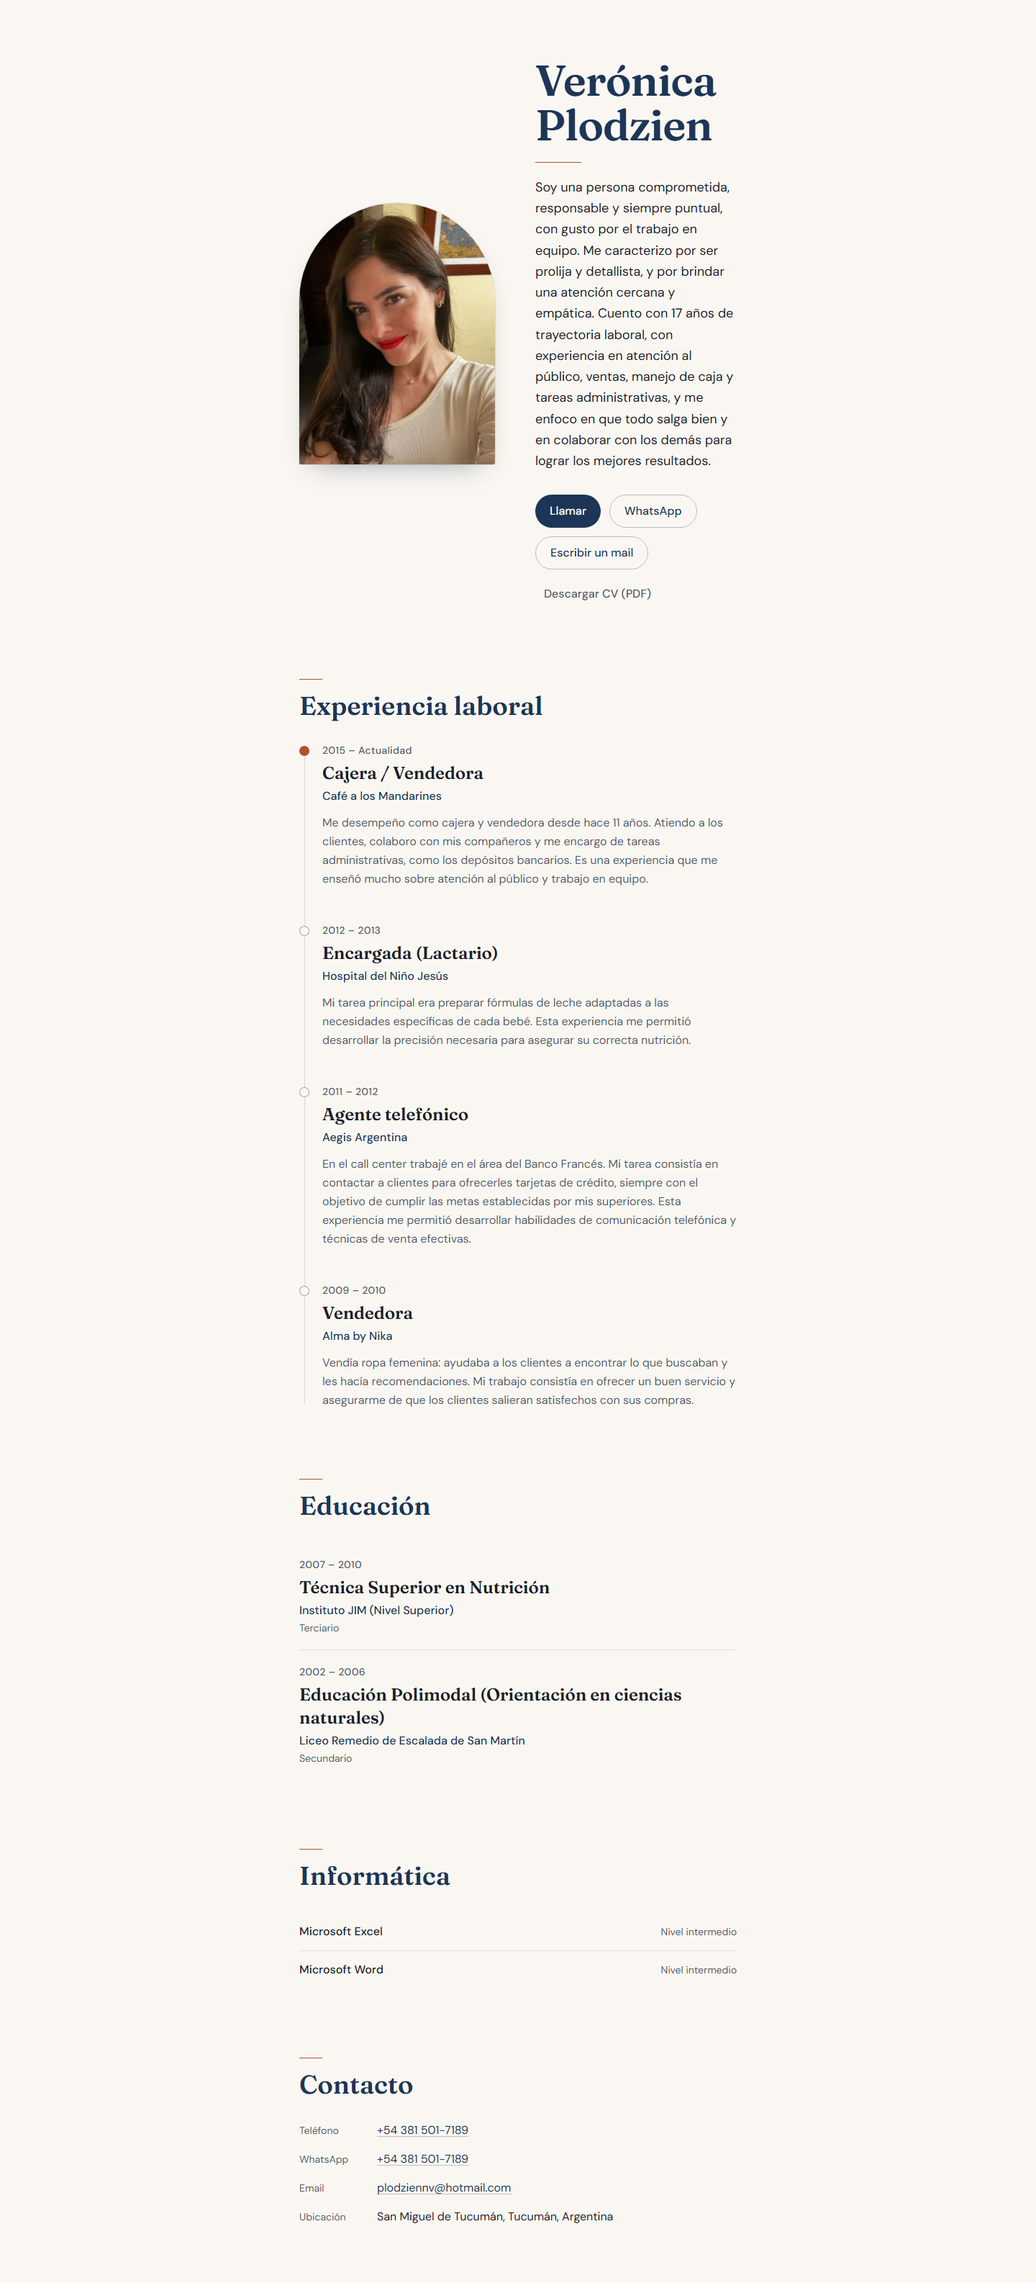
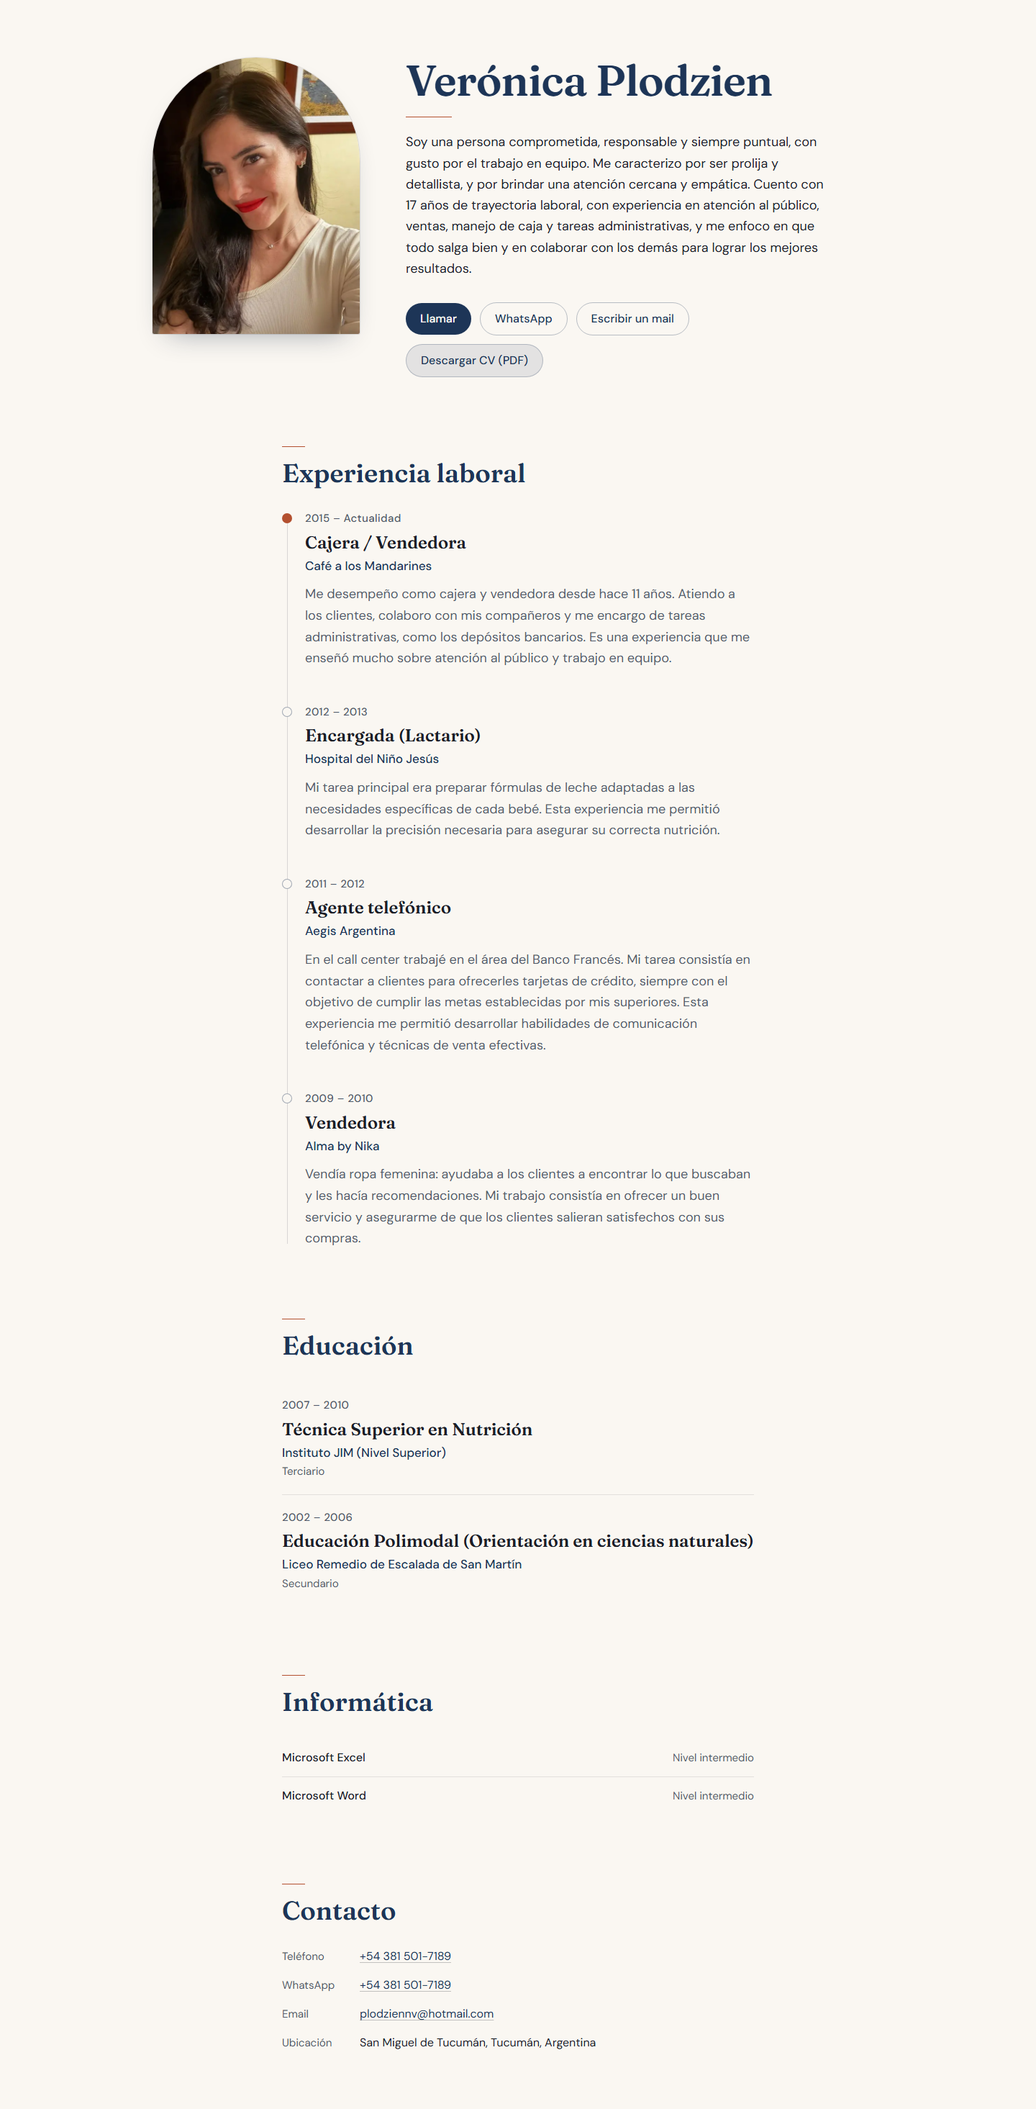
Round 7: desktop layout pass — 1080/720 column widths, two-column hero, button row, rem type sizes, metadataBase local fallback

diff --git a/components/hero.tsx b/components/hero.tsx
@@ -51,7 +51,7 @@ export function Hero(props: HeroProps) {
   return (
     <section className="pt-10 sm:pt-16 md:pt-20">
       <motion.div
-        className="grid items-center gap-8 md:grid-cols-2 md:gap-12"
+        className="grid items-start gap-8 md:grid-cols-[17rem_1fr] md:gap-12 lg:grid-cols-[18rem_1fr] lg:gap-16"
         variants={reduce ? undefined : parent}
         initial={reduce ? false : "hidden"}
         animate={reduce ? undefined : "show"}
@@ -59,7 +59,7 @@ export function Hero(props: HeroProps) {
         {/* Photo: soft arch, the quiet center of the page */}
         <motion.div
           {...entrance}
-          className="mx-auto w-44 sm:w-52 md:mx-0 md:w-full md:max-w-[17rem]"
+          className="mx-auto w-44 sm:w-52 md:mx-0 md:w-full"
         >
           <div className="overflow-hidden rounded-b-2xl rounded-t-[999px] shadow-[0_18px_40px_-22px_rgba(20,38,63,0.45)] ring-1 ring-ink/10">
             <Image
@@ -73,7 +73,7 @@ export function Hero(props: HeroProps) {
         </motion.div>
 
         {/* Name, mark, profile, actions */}
-        <div>
+        <div className="min-w-0 lg:max-w-[600px]">
           <motion.h1
             {...entrance}
             className="font-display text-[clamp(2.75rem,7vw,3.75rem)] font-semibold leading-[1.04] tracking-[-0.015em] text-navy"
@@ -89,38 +89,37 @@ export function Hero(props: HeroProps) {
 
           <motion.p
             {...entrance}
-            className="mt-5 max-w-[65ch] text-lg leading-relaxed"
+            className="mt-5 max-w-[60ch] text-lg leading-relaxed"
           >
             {props.profile}
           </motion.p>
 
-          <motion.div
-            {...entrance}
-            className="mt-8 flex flex-wrap gap-2.5 sm:gap-3"
-          >
-            <a
-              href={`tel:${props.phoneLink}`}
-              className="inline-flex items-center rounded-full bg-navy px-5 py-2.5 font-medium text-paper transition-colors duration-200 hover:bg-navy-deep"
-            >
-              {copy.hero.call}
-            </a>
-            <a
-              href={`https://wa.me/${props.whatsapp}`}
-              target="_blank"
-              rel="noreferrer"
-              className="inline-flex items-center rounded-full border border-navy/30 px-5 py-2.5 font-medium text-navy transition-colors duration-200 hover:border-navy hover:bg-navy/5"
-            >
-              {copy.hero.whatsapp}
-            </a>
-            <a
-              href={`mailto:${props.email}`}
-              className="inline-flex items-center rounded-full border border-navy/30 px-5 py-2.5 font-medium text-navy transition-colors duration-200 hover:border-navy hover:bg-navy/5"
-            >
-              {copy.hero.email}
-            </a>
+          <motion.div {...entrance} className="mt-8">
+            <div className="flex flex-col gap-2.5 sm:flex-row sm:flex-nowrap sm:items-center sm:gap-3">
+              <a
+                href={`tel:${props.phoneLink}`}
+                className="inline-flex items-center rounded-full bg-navy px-5 py-2.5 font-medium text-paper transition-colors duration-200 hover:bg-navy-deep"
+              >
+                {copy.hero.call}
+              </a>
+              <a
+                href={`https://wa.me/${props.whatsapp}`}
+                target="_blank"
+                rel="noreferrer"
+                className="inline-flex items-center rounded-full border border-navy/30 px-5 py-2.5 font-medium text-navy transition-colors duration-200 hover:border-navy hover:bg-navy/5"
+              >
+                {copy.hero.whatsapp}
+              </a>
+              <a
+                href={`mailto:${props.email}`}
+                className="inline-flex items-center rounded-full border border-navy/30 px-5 py-2.5 font-medium text-navy transition-colors duration-200 hover:border-navy hover:bg-navy/5"
+              >
+                {copy.hero.email}
+              </a>
+            </div>
             <a
               href="/cv.pdf"
-              className="inline-flex items-center rounded-full px-3 py-2.5 font-medium text-ink-soft transition-colors duration-200 hover:text-navy"
+              className="mt-2.5 inline-flex items-center rounded-full border border-navy/25 bg-navy/10 px-5 py-2.5 font-medium text-navy transition-colors duration-200 hover:bg-navy/15 sm:mt-3"
             >
               {copy.hero.downloadPdf}
             </a>

diff --git a/app/page.tsx b/app/page.tsx
@@ -41,35 +41,41 @@ export default function CvPage() {
   ].join(", ");
 
   return (
-    <main className="mx-auto w-full max-w-2xl px-5 sm:px-8">
-      <Hero
-        name={cv.name}
-        photoSrc={assetUrl(cv.photo.web)}
-        photoAlt={copy.page.photoAlt(cv.name)}
-        profile={profile}
-        phone={cv.contact.phone}
-        phoneLink={cv.contact.phoneLink}
-        whatsapp={cv.contact.whatsapp}
-        email={cv.contact.email}
-      />
+    <>
+      {/* Hero: full width on mobile, ~1080px centered on large screens. */}
+      <div className="mx-auto w-full px-5 sm:px-8 lg:max-w-[67.5rem]">
+        <Hero
+          name={cv.name}
+          photoSrc={assetUrl(cv.photo.web)}
+          photoAlt={copy.page.photoAlt(cv.name)}
+          profile={profile}
+          phone={cv.contact.phone}
+          phoneLink={cv.contact.phoneLink}
+          whatsapp={cv.contact.whatsapp}
+          email={cv.contact.email}
+        />
+      </div>
 
-      <ExperienceSection items={experienceItems} />
+      {/* Reading sections: ~720px column. */}
+      <div className="mx-auto w-full max-w-[45rem] px-5 sm:px-8">
+        <ExperienceSection items={experienceItems} />
 
-      {educationItems.length > 0 && (
-        <EducationSection items={educationItems} />
-      )}
+        {educationItems.length > 0 && (
+          <EducationSection items={educationItems} />
+        )}
 
-      {cv.computerSkills.length > 0 && (
-        <SkillsSection items={cv.computerSkills} />
-      )}
+        {cv.computerSkills.length > 0 && (
+          <SkillsSection items={cv.computerSkills} />
+        )}
 
-      <ContactSection
-        phone={cv.contact.phone}
-        phoneLink={cv.contact.phoneLink}
-        whatsapp={cv.contact.whatsapp}
-        email={cv.contact.email}
-        location={location}
-      />
-    </main>
+        <ContactSection
+          phone={cv.contact.phone}
+          phoneLink={cv.contact.phoneLink}
+          whatsapp={cv.contact.whatsapp}
+          email={cv.contact.email}
+          location={location}
+        />
+      </div>
+    </>
   );
 }

diff --git a/components/contact-section.tsx b/components/contact-section.tsx
@@ -34,7 +34,7 @@ export function ContactSection({
       <Reveal delay={0.08}>
         <address className="mt-8 space-y-4 not-italic">
           <p className="flex flex-wrap items-baseline gap-x-3">
-            <span className="w-24 shrink-0 text-sm text-ink-soft">
+            <span className="w-24 shrink-0 text-base text-ink-soft md:text-[0.9375rem]">
               {copy.contact.phoneLabel}
             </span>
             <a href={`tel:${phoneLink}`} className={linkClasses}>
@@ -42,7 +42,7 @@ export function ContactSection({
             </a>
           </p>
           <p className="flex flex-wrap items-baseline gap-x-3">
-            <span className="w-24 shrink-0 text-sm text-ink-soft">
+            <span className="w-24 shrink-0 text-base text-ink-soft md:text-[0.9375rem]">
               {copy.contact.whatsappLabel}
             </span>
             <a
@@ -55,7 +55,7 @@ export function ContactSection({
             </a>
           </p>
           <p className="flex flex-wrap items-baseline gap-x-3">
-            <span className="w-24 shrink-0 text-sm text-ink-soft">
+            <span className="w-24 shrink-0 text-base text-ink-soft md:text-[0.9375rem]">
               {copy.contact.emailLabel}
             </span>
             <a href={`mailto:${email}`} className={linkClasses}>
@@ -63,7 +63,7 @@ export function ContactSection({
             </a>
           </p>
           <p className="flex flex-wrap items-baseline gap-x-3">
-            <span className="w-24 shrink-0 text-sm text-ink-soft">
+            <span className="w-24 shrink-0 text-base text-ink-soft md:text-[0.9375rem]">
               {copy.contact.locationLabel}
             </span>
             <span>{location}</span>

diff --git a/app/layout.tsx b/app/layout.tsx
@@ -19,20 +19,22 @@ const cv = loadCv();
 const siteUrl = process.env.NEXT_PUBLIC_SITE_URL;
 
 /**
- * The site URL comes from an env var, never hardcoded. An absent value is
- * normal (relative URLs); a malformed one gets a clear warning instead of
- * crashing the build.
+ * The site URL comes from an env var, never hardcoded. Until the site is
+ * deployed there is no domain, so local development uses the local origin
+ * (otherwise Next warns and guesses it anyway). Set NEXT_PUBLIC_SITE_URL in
+ * .env.local / at deploy time to emit correct absolute URLs in the
+ * og/twitter tags.
  */
-function resolveMetadataBase(url: string | undefined): URL | undefined {
-  if (!url) return undefined;
+function resolveMetadataBase(): URL {
+  if (!siteUrl) return new URL("http://localhost:3000");
   try {
-    return new URL(url);
+    return new URL(siteUrl);
   } catch {
     console.warn(
-      `[metadata] NEXT_PUBLIC_SITE_URL is not a valid URL ("${url}"); ` +
-        "falling back to relative URLs.",
+      `[metadata] NEXT_PUBLIC_SITE_URL is not a valid URL ("${siteUrl}"); ` +
+        "using the local origin instead.",
     );
-    return undefined;
+    return new URL("http://localhost:3000");
   }
 }
 
@@ -45,7 +47,7 @@ const ogImage = {
 };
 
 export const metadata: Metadata = {
-  metadataBase: resolveMetadataBase(siteUrl),
+  metadataBase: resolveMetadataBase(),
   title: copy.page.title(cv.name),
   description: copy.page.description(cv.name),
   openGraph: {

diff --git a/components/education-section.tsx b/components/education-section.tsx
@@ -32,14 +32,18 @@ export function EducationSection({ items }: EducationSectionProps) {
               key={item.degree}
               className={index > 0 ? "border-t border-ink/10 py-5 first:pt-0" : "py-5"}
             >
-              <p className="text-sm font-medium tracking-wide text-ink-soft tabular-nums">
+              <p className="text-base font-medium tracking-wide text-ink-soft tabular-nums md:text-[0.9375rem]">
                 {item.period}
               </p>
               <h3 className="mt-1.5 font-display text-xl font-semibold text-ink sm:text-2xl">
                 {item.degree}
               </h3>
-              <p className="mt-1 font-medium text-navy">{item.institution}</p>
-              <p className="mt-0.5 text-sm text-ink-soft">{item.level}</p>
+              <p className="mt-1 font-medium text-navy md:text-[1.0625rem]">
+                {item.institution}
+              </p>
+              <p className="mt-0.5 text-base text-ink-soft md:text-[0.9375rem]">
+                {item.level}
+              </p>
             </li>
           ))}
         </ul>

diff --git a/components/experience-section.tsx b/components/experience-section.tsx
@@ -82,14 +82,16 @@ export function ExperienceSection({ items }: ExperienceSectionProps) {
                 }
               />
               <Reveal delay={index * 0.06}>
-                <p className="text-sm font-medium tracking-wide text-ink-soft tabular-nums">
+                <p className="text-base font-medium tracking-wide text-ink-soft tabular-nums md:text-[0.9375rem]">
                   {item.period}
                 </p>
                 <h3 className="mt-1.5 font-display text-xl font-semibold text-ink sm:text-2xl">
                   {item.position}
                 </h3>
-                <p className="mt-1 font-medium text-navy">{item.company}</p>
-                <p className="mt-3 max-w-[62ch] leading-relaxed text-ink-soft">
+                <p className="mt-1 font-medium text-navy md:text-[1.0625rem]">
+                  {item.company}
+                </p>
+                <p className="mt-3 max-w-[62ch] text-base leading-relaxed text-ink-soft md:text-[1.125rem] md:leading-[1.65]">
                   {item.description}
                 </p>
               </Reveal>

diff --git a/components/skills-section.tsx b/components/skills-section.tsx
@@ -33,7 +33,7 @@ export function SkillsSection({ items }: SkillsSectionProps) {
               }`}
             >
               <span className="font-medium">{item.name}</span>
-              <span className="shrink-0 text-sm text-ink-soft">
+              <span className="shrink-0 text-base text-ink-soft md:text-[0.9375rem]">
                 {item.level}
               </span>
             </li>

diff --git a/.pi/memory.md b/.pi/memory.md
@@ -3,10 +3,11 @@
 ## Resume here (handoff, session 2026-10-03)
 - This project is the new CV of Verónica Plodzien. The old CRA repo (READ ONLY — never install/run it) is at `C:\Users\Jony\Desktop\Curriculum-Vero`; its git history holds the original literal texts from every round.
 - Content source of truth: `data/cv.json` — keys in English; visible text values in Spanish, approved verbatim by the CV owner. Do not rewrite, summarize or "improve" them.
-- Full decision/change history: `NOTES.md` (rounds 2–5; written in English from round 5 on — keep it in English).
-- STATUS: **app built and reviewed (round 6, 2026-10-03)** — Next.js 16 App Router + TS + Tailwind v4 + motion, pnpm. Finish review ended "Ready to ship" (detector zero findings); `DESIGN.md` + `.impeccable/design.json` written. NEXT TASK: real PDF generation for `/cv.pdf` (currently a 501 placeholder; suggested filename `Veronica-Plodzien-CV.pdf`). When the user says "continue / dónde quedamos": re-read `NOTES.md` (round 6 section) + `DESIGN.md` + `data/cv.json`, then proceed.
+- Full decision/change history: `NOTES.md` (rounds 2–7; written in English from round 5 on — keep it in English). Newest-first: round 7 (desktop layout pass) is at the top.
+- STATUS: **app built, reviewed (round 6) + desktop layout pass done (round 7, 2026-10-03)** — Next.js 16 App Router + TS + Tailwind v4 + motion, pnpm. NEXT TASK: real PDF generation for `/cv.pdf` (currently a 501 placeholder; suggested filename `Veronica-Plodzien-CV.pdf`). When the user says "continue / dónde quedamos": re-read `NOTES.md` (rounds 6–7 sections) + `DESIGN.md` + `data/cv.json`, then proceed.
 - App facts: tokens in `app/globals.css` (paper #faf7f2, ink #1b1e26/soft #525b6b, navy #1d3557/deep #14263f, terracotta #b3502f decorative-only); Fraunces/DM Sans via next/font; all UI chrome text in `lib/copy.ts` (English keys, Spanish values); `revalidate = 86400` must stay a LITERAL (Next 16 extracts segment-config statically); year math in `lib/years.ts` (Tucumán timezone); reduced-motion = static final states (a hard floor — never branch element types between SSR/client to hide content); Playwright review scripts live in `C:\Users\Jony\.tools\playwright\cv-vero-*.js`; run with `pnpm dev` / `pnpm build && pnpm start`.
 - Hard rules: no empty sections in JSON or UI (no courses/certifications/languages/socials exist); no industry-specific orientation and no occupation title anywhere (the degree title lives only in education); no invented text.
 - Placeholders in the JSON are resolved at display time, never stored: `{career_years}` = current year − earliest experience year (2009); `{years_in_role}` = current year − current job `from` (2015); for past jobs `to − from`.
 - Assets: `public/img-perfil.jpg` (original 1200×1600) and `public/img-perfil-600x800.webp` (used by the web hero + og:image/twitter:image, served as `/img-perfil-600x800.webp` — never the `public/...` path). Authored favicon: `app/icon.svg` (arch motif).
 - Contact fields: `phone` (display, "+54 381 501-7189"), `phone_link` (tel: "+5493815017189"), `whatsapp` (wa.me "5493815017189").
+- Layout (round 7): hero full-width on mobile, `lg:max-w-[67.5rem]` (1080px) centered; reading sections in a `max-w-[45rem]` (720px) column; hero grid `md:grid-cols-[17rem_1fr] lg:grid-cols-[18rem_1fr]` top-aligned, photo 272/288px, text col `lg:max-w-[600px]`, profile `max-w-[60ch]`. TAILWIND v4 GOTCHA: multi-track arbitrary grid values need UNDERSCORES (`[17rem_1fr]`), not commas — commas emit invalid `grid-template-columns` that browsers silently ignore. Buttons: 3 contact pills one row from `sm:`, download as secondary soft-fill button below. Reading type: `text-base` (16px mobile floor) → `md:text-[1.125rem]` descriptions (lh 1.65) / `md:text-[1.0625rem]` company+institution / `md:text-[0.9375rem]` periods+labels. `metadataBase` fallback = `http://localhost:3000` (no env var until deployed; silences Next's warning) — set `NEXT_PUBLIC_SITE_URL` in `.env.local` at deploy time.

diff --git a/NOTES.md b/NOTES.md
@@ -4,6 +4,20 @@ Source repo: `C:\Users\Jony\Desktop\Curriculum-Vero` (CRA). Target: `C:\Users\Jo
 Rounds 3–5: corrections and adjustments approved by the CV owner.
 From round 5 on, this file is written in English; the visible CV text values (in `data/cv.json`) stay in Spanish, unmodified.
 
+## Round 7 changes — desktop layout pass (widths, hero, type sizes, dev issue)
+
+Requested by the owner; **layout-only** — no palette, type-family, content, or animation changes.
+
+1. **Column widths** (`app/page.tsx`): the single 672px column is now two wrappers — the hero is full-width on mobile and capped at **1080px** centered (`lg:max-w-[67.5rem]`); the reading sections (Experiencia, Educación, Informática, Contacto) share a **720px** column (`max-w-[45rem]`). Mobile keeps the original 20px gutters.
+2. **Hero, two columns on md+** (`components/hero.tsx`): grid `md:grid-cols-[17rem_1fr] lg:grid-cols-[18rem_1fr]`. Tailwind v4 gotcha: the first attempt used commas (`[17rem,1fr]`), which produced the invalid CSS `grid-template-columns:17rem,1fr` — the browser ignored it and the page rendered single-column; caught by the screenshot pass and fixed with underscores. Photo left, slightly larger (272px md / 288px lg); name + hairline + profile + buttons in the right column (`min-w-0 lg:max-w-[600px]`), **top-aligned** (`items-start`) so the name starts at the photo's top line; at lg the right margin equals the 64px gap (balanced breathing room).
+3. **Buttons**: the three contact pills (Llamar / WhatsApp / Escribir un mail) always sit on one row from `sm:` up (stack only on phones); **Descargar CV (PDF) is now a real secondary button** — soft navy fill (`bg-navy/10`, 25%-opacity border, text navy, no icon to keep the text-only-pill consistency) — on its own line directly below.
+4. **Profile measure** 65ch → **60ch** (owner request).
+5. **Type sizes, rem-based** (16px floor for reading text on mobile; desktop bumps via `md:`): descriptions `1rem → md:1.125rem` (18px, line-height 1.65); company/institution `md:1.0625rem` (17px); periods, levels and secondary labels `1rem → md:0.9375rem` (16px phone / 15px desktop). H3 position/degree headings unchanged (20/24px).
+6. **Contrast**: measured in the browser (Playwright, WCAG relative-luminance on rendered nodes): gray `#525b6b` on cream `#faf7f2` = **6.41:1** — passes 4.5:1 even at 15px, so no color was darkened. All four distinct color/background pairs on the page pass.
+7. **The dev “1 issue”**: Next 16 printed `⚠ metadataBase property in metadata export is not set … using "http://localhost:3000"` — `NEXT_PUBLIC_SITE_URL` is unset (site not deployed yet), so `metadataBase` was `undefined` and Next guessed. Fix: `resolveMetadataBase()` now always returns a URL (the env var when set, otherwise the local origin; malformed → warning + local origin). Same URLs as before, zero warnings in dev and `pnpm build`; README documents that the real domain goes in `.env.local` at deploy time.
+8. **Verified**: clean production build; Playwright reduced-motion screenshots 1440×2930 and 390×3501; zero console/page errors.
+9. `.impeccable/dev.log` added to `.gitignore` (alongside `server.log`).
+
 ## Round 6 changes — new visual build (the web app)
 
 The content work (rounds 1–5) closed this file; round 6 documents the build of the new single-page CV on top of the finalized `data/cv.json`.

diff --git a/README.md b/README.md
@@ -47,4 +47,6 @@ se servirá desde esa misma URL y se descargará como
 Copiar `.env.example` a `.env.local`:
 
 - `NEXT_PUBLIC_SITE_URL` — URL pública del sitio; alimenta la metadata
-  SEO / Open Graph.
+  SEO / Open Graph (og:image y twitter:image). Opcional en desarrollo local:
+  sin ella se usa `http://localhost:3000` como origen. **Setearla al
+  desplegar** para que los tags sociales apunten al dominio real.
